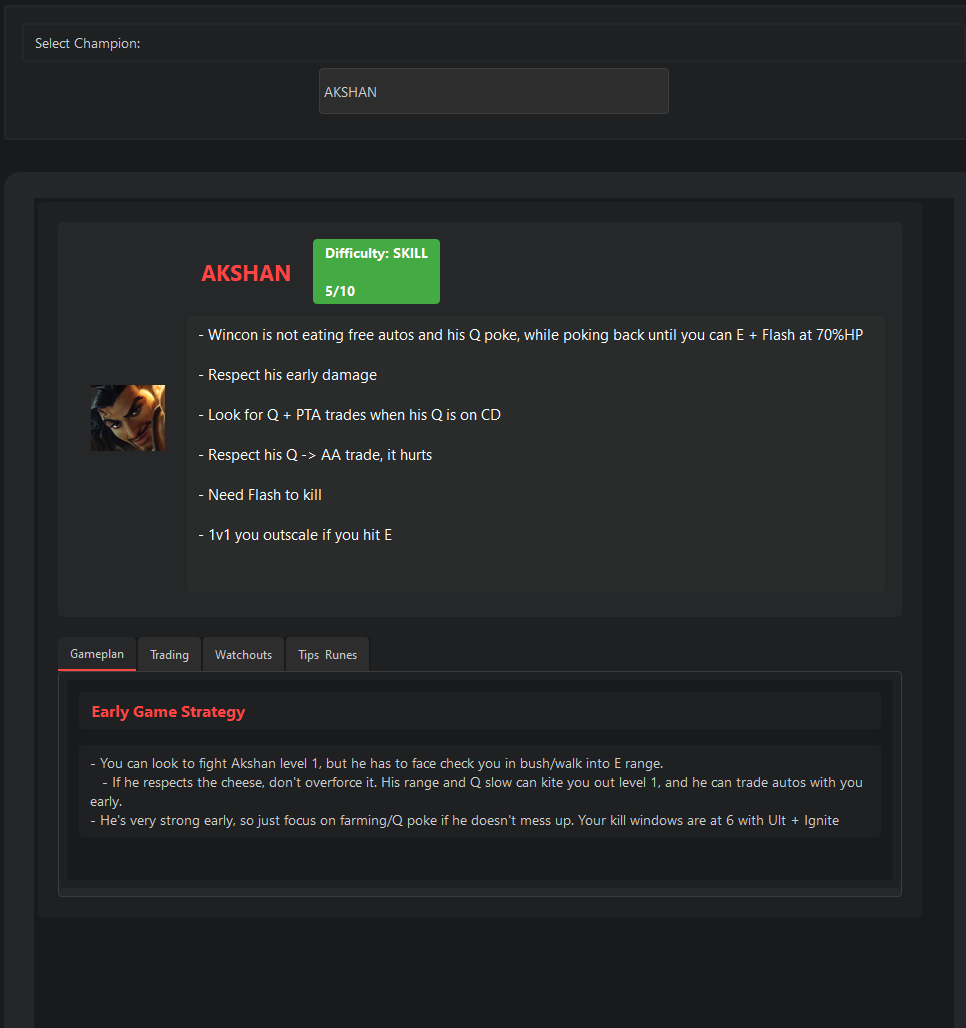
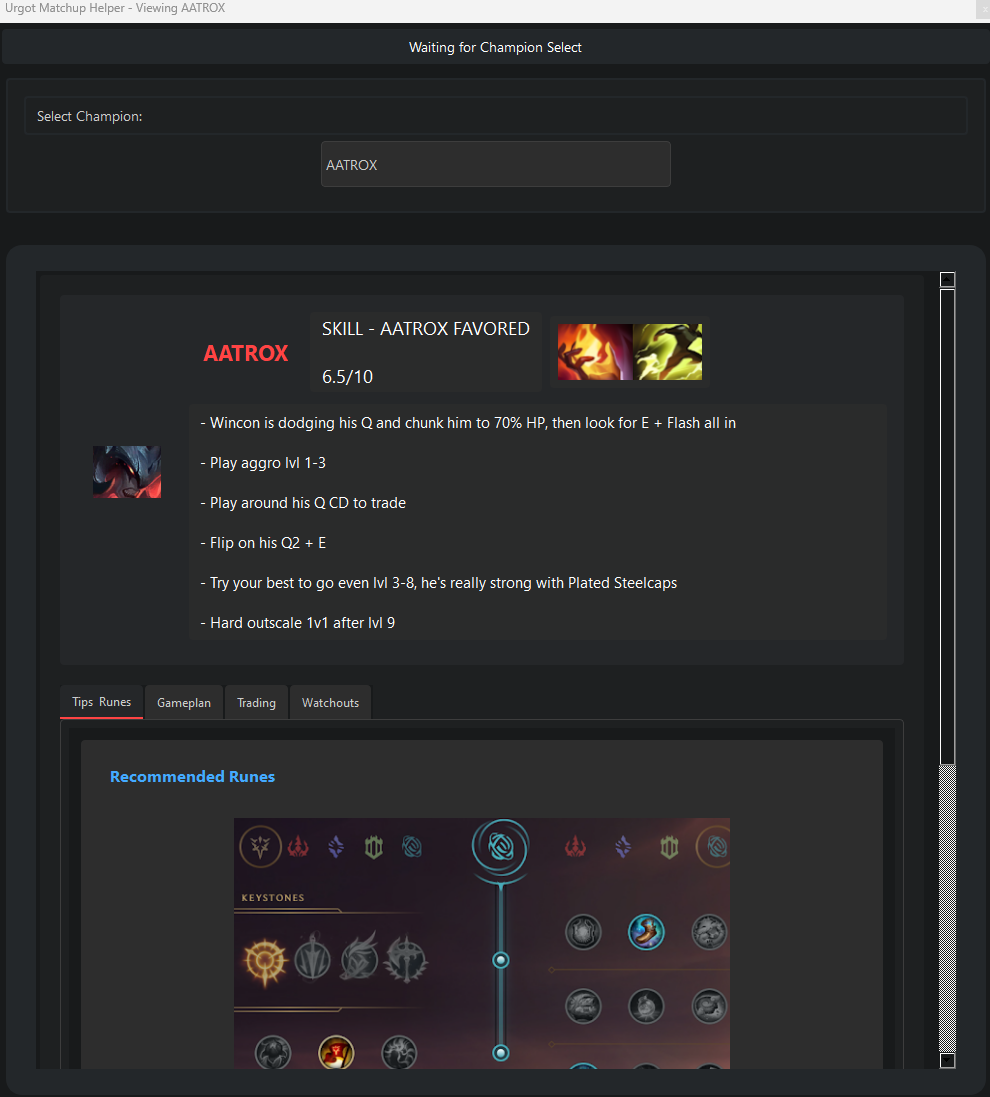
Runes images working

diff --git a/src/ui/matchup_display.py b/src/ui/matchup_display.py
@@ -233,10 +233,10 @@ class MatchupDisplay(BaseUI):
             
             # Create tabs for each section
             sections = [
+                ("Tips & Runes", self.create_tips_runes_tab(matchup_info)),
                 ("Gameplan", self.create_gameplan_tab(matchup_info)),
                 ("Trading", self.create_trading_tab(matchup_info)),
-                ("Watchouts", self.create_watchouts_tab(matchup_info)),
-                ("Tips & Runes", self.create_tips_runes_tab(matchup_info))
+                ("Watchouts", self.create_watchouts_tab(matchup_info))
             ]
             
             for title, widget in sections:
@@ -244,6 +244,8 @@ class MatchupDisplay(BaseUI):
                     tabs.addTab(widget, title)
             
             if tabs.count() > 0:
+                # Set Tips & Runes as the default tab
+                tabs.setCurrentIndex(0)
                 main_layout.addWidget(tabs)
             else:
                 # No tabs were created, display a message
@@ -366,12 +368,11 @@ class MatchupDisplay(BaseUI):
             
         has_tips = tips is not None and tips
         has_runes = hasattr(matchup_info, 'runes') and matchup_info.runes and any(matchup_info.runes)
-        has_rune_image = hasattr(matchup_info, 'rune_image_url') and matchup_info.rune_image_url
         
-        if not (has_tips or has_runes or has_rune_image):
+        if not (has_tips or has_runes):
             return None
             
-        logger.debug(f"Creating tips tab with content: {has_tips=}, {has_runes=}, {has_rune_image=}")
+        logger.debug(f"Creating tips tab with content: {has_tips=}, {has_runes=}")
             
         widget = QWidget()
         layout = QVBoxLayout(widget)
@@ -379,7 +380,7 @@ class MatchupDisplay(BaseUI):
         layout.setSpacing(16)
         
         # Runes section
-        if has_rune_image:
+        if has_runes:
             runes_frame = QFrame()
             runes_frame.setStyleSheet("""
                 QFrame {
@@ -399,16 +400,12 @@ class MatchupDisplay(BaseUI):
             rune_image_label = QLabel()
             rune_image_label.setFixedSize(512, 512)
             rune_image_label.setAlignment(Qt.AlignmentFlag.AlignCenter)
-            self.load_image(rune_image_label, matchup_info.runes)
+            if matchup_info.runes and matchup_info.runes.strip():
+                logger.debug(f"Loading rune image from URL: {matchup_info.runes}")
+                self.load_image(rune_image_label, matchup_info.runes)
+            else:
+                logger.debug("No valid rune image URL found")
             runes_layout.addWidget(rune_image_label, 0, Qt.AlignmentFlag.AlignCenter)
-            
-            # Rune text if available
-            if has_runes:
-                rune_text = "\n".join([r for r in matchup_info.runes if r])
-                runes_content = QLabel(rune_text)
-                runes_content.setWordWrap(True)
-                runes_content.setStyleSheet("color: #cccccc; font-size: 14px;")
-                runes_layout.addWidget(runes_content)
             
             layout.addWidget(runes_frame)
         
